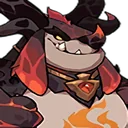
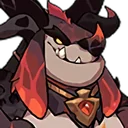
Counter: Find best counter button, win check, typed enemy level; square beast art
The counter already recalculated on every change; a Find best counter
button now reruns it and scrolls to the result. A win check at the top
of the result compares both teams' estimated power and turns red and
loud when the enemy is out of reach. The enemy hero level is typed in.

Beast art came as 186x250 cards squashed into squares; it is now a
square crop from near the top (also in sync_roster.py for new beasts).

Claude-Session: https://claude.ai/code/session_01YTy74K1THZQ6yo1A1fYRpt

diff --git a/src/js/ui/counter.js b/src/js/ui/counter.js
@@ -54,16 +54,6 @@ function enemyLevel() {
   return ui.enemyLevel ?? myLevel();
 }
 
-function levelOptions() {
-  const cur = enemyLevel();
-  const mine = myLevel();
-  const set = new Set([240, ...Array.from({ length: 25 }, (_, i) => 300 + i * 50), mine, cur]);
-  return [...set]
-    .filter((n) => n >= 1 && n <= LIMITS.level)
-    .sort((a, b) => a - b)
-    .map((n) => `<option value="${n}" ${n === cur ? 'selected' : ''}>${n}${n === mine ? ' · yours' : ''}</option>`)
-    .join('');
-}
 
 let root;
 
@@ -161,7 +151,7 @@ function render() {
         <div class="side-title">${ICON.swords} Enemy formation</div>
         ${board({ slots: ui.enemy, editable: true, cls: 'enemy-board', size: 60, build: enemyBuild(), level: enemyLevel(), beastEdit: beasts, beast: beasts ? ui.enemyBeast : null, beastLevel: ui.enemyBeastLevel })}
         <div class="enemy-opts">
-          <label class="field"><span>Hero level</span><select class="select" id="ct-elevel">${levelOptions()}</select></label>
+          <label class="field"><span>Hero level</span><input class="input" id="ct-elevel" type="number" inputmode="numeric" min="1" max="${LIMITS.level}" value="${enemyLevel()}" placeholder="${myLevel()}" title="Yours: ${myLevel()}"></label>
           <label class="field"><span>Upgrades (assumed)</span><select class="select" id="ct-ebuild">${Object.entries(ENEMY_BUILDS)
             .map(([k, b]) => `<option value="${k}" ${k === ui.enemyBuild ? 'selected' : ''}>${esc(b.label)}</option>`)
             .join('')}</select></label>
@@ -175,6 +165,7 @@ function render() {
         </div>
         <p class="small muted">The game doesn't show enemy upgrades, so enemy heroes count as Ascended 5 stars with the upgrades above.${beasts ? ' Tap the beast corner to set their beast.' : ''}</p>
         <div class="toolbar">
+          <button class="btn primary" type="button" data-act="find" ${enemyIds().length ? '' : 'disabled'}>${ICON.spark} Find best counter</button>
           <button class="btn" type="button" data-act="shot" id="ct-shot" hidden>${ICON.upload} Read a screenshot</button>
           <input type="file" id="ct-file" accept="image/png,image/jpeg,image/webp" hidden>
           <button class="btn" type="button" data-act="clear">Clear</button>
@@ -225,11 +216,12 @@ function renderResult(ctx) {
     .join('');
   const bp = beastFor(ctx, Object.values(s.layout));
   host.innerHTML = `<div class="side-title">${ICON.spark} Your counter (rules engine)</div>
+    <p class="small muted">Recalculated each time you change the enemy, the mode or your heroes.</p>
     <article class="result-card">
+      ${verdict(Object.values(s.layout))}
       <header><h4>${esc(s.template?.name || 'Counter formation')}</h4><span class="score">${s.total.toFixed(1)} pts</span></header>
       ${board({ slots: s.layout, artifacts: arts, showBank: ui.pool === 'mine', beast: bp.id })}
       ${bp.html}
-      ${powerLine(Object.values(s.layout))}
       <ul class="reasons">${reasons}</ul>
       ${s.synergies.length ? `<p class="small"><span class="muted">Synergy:</span> ${s.synergies.map((x) => `${esc(getHero(x.a).name)} + ${esc(getHero(x.b).name)}`).join(', ')}</p>` : ''}
     </article>`;
@@ -249,19 +241,25 @@ function renderResult(ctx) {
       .join('')}</div>`;
 }
 
-// Team power: the counter's estimated combat rating against the enemy's,
-// both from the same estimate (engine.js), the enemy's at the assumed build
-// and level. Beasts are not counted.
-function powerLine(ids) {
+// Can this team win? Compares the counter's estimated power with the
+// enemy's at its assumed build and level (combat rating estimate, engine.js;
+// beasts not counted). A rough guide: counters and faction edge can swing a
+// close fight, rarely a gap of 20% or more.
+function verdict(ids) {
   const enemy = enemyIds();
   if (ui.pool !== 'mine' || !enemy.length) return '';
   const theirs = enemy.reduce((t, id) => t + entryCR(enemyBuild(), getHero(id), enemyLevel()), 0);
   const ours = ids.reduce((t, id) => t + heroCR(getHero(id)), 0);
   const r = ours / theirs;
-  const verdict = enemy.length < 5 ? '' : r >= 1.1 ? 'Your team is stronger.' : r >= 0.9 ? 'A close match: faction edge and counters decide it.' : 'The enemy is stronger: expect a hard fight.';
-  return `<p class="power-line" title="${esc(CR_NOTE)}"><span class="muted">Team power</span> <strong class="num">≈ ${fmtCR(ours)}</strong> <span class="muted">vs enemy</span> <strong class="num">≈ ${fmtCR(theirs)}</strong>${
-    enemy.length < 5 ? ` <span class="muted">(${enemy.length} enemy hero${enemy.length === 1 ? '' : 'es'})</span>` : ''
-  }${verdict ? `<br><span class="small">${verdict}</span>` : ''}</p>`;
+  const pct = Math.round((r >= 1 ? r - 1 : 1 / r - 1) * 100);
+  let v;
+  if (enemy.length < 5) v = ['info', 'Enemy formation incomplete', `With ${enemy.length} of 5 enemy heroes in, the power check isn't meaningful yet.`];
+  else if (r >= 1.1) v = ['good', 'You should win', `Your team is about ${pct}% stronger.`];
+  else if (r >= 0.9) v = ['close', 'Close match', `The teams are within ${pct}% of each other, so faction edge, counters and positioning decide it.`];
+  else if (r >= 0.8) v = ['warn', 'Hard fight', `The enemy is about ${pct}% stronger. You need the counters and faction edge to land.`];
+  else v = ['bad', "You probably can't win this", `The enemy is about ${pct}% stronger. Counters and faction edge rarely make up that much: upgrade your heroes first or pick another opponent.`];
+  return `<div class="verdict ${v[0]}" role="status" title="${esc(CR_NOTE)}"><strong>${v[0] === 'bad' ? '⚠ ' : ''}${v[1]}</strong><span>${v[2]}</span>
+    <span class="small">Team power ≈ <b class="num">${fmtCR(ours)}</b> vs enemy ≈ <b class="num">${fmtCR(theirs)}</b> (estimates; enemy assumed ${esc(ENEMY_BUILDS[ui.enemyBuild]?.label || '')} at level ${enemyLevel()})</span></div>`;
 }
 
 function beastFor(ctx, ids) {
@@ -401,6 +399,14 @@ function onClick(ev) {
       ui.claude = null;
       render();
     });
+  } else if (act === 'find') {
+    // The counter is recalculated on every change; this reruns it and brings it into view.
+    renderResult(context());
+    const card = $('#ct-result .result-card', root) || $('#ct-result', root);
+    card?.scrollIntoView({ behavior: 'smooth', block: 'start' });
+    card?.classList.remove('flash');
+    void card?.offsetWidth;
+    card?.classList.add('flash');
   } else if (act === 'claude') askClaude();
   else if (act === 'stop') ui.ctl?.abort();
   else if (act === 'shot') $('#ct-file', root).click();
@@ -416,7 +422,9 @@ function onChange(ev) {
     ui.invest = t.checked;
     render();
   } else if (t.id === 'ct-elevel') {
-    ui.enemyLevel = Number(t.value);
+    // Empty goes back to the player's own level.
+    const v = Math.round(Number(t.value));
+    ui.enemyLevel = t.value === '' || !Number.isFinite(v) ? null : Math.min(LIMITS.level, Math.max(1, v));
     ui.claude = null;
     render();
   } else if (t.id === 'ct-ebuild') {

diff --git a/src/css/app.css b/src/css/app.css
@@ -900,12 +900,24 @@ table.bank .input, table.bank .select { padding: 3px 6px; min-height: 30px; font
 /* Enemy formation: level, assumed upgrades and beast level in one row. */
 .enemy-opts { display: grid; grid-template-columns: minmax(0, 0.8fr) minmax(0, 1.6fr) minmax(0, 0.8fr); gap: 10px; }
 .enemy-opts .select { width: 100%; }
-.power-line { margin: 0; font-size: 0.9rem; }
+/* Win check at the top of the counter: red and loud when the enemy is out of reach. */
+.verdict { display: flex; flex-direction: column; gap: 3px; padding: 10px 12px; border-radius: var(--r-sm); border: 1px solid var(--line-2); background: var(--surface-2); font-size: 0.92rem; }
+.verdict strong { font-family: var(--font-display); font-weight: 400; font-size: 1.12rem; }
+.verdict .small { color: var(--ink-2); }
+.verdict.good { border-color: color-mix(in srgb, var(--good) 60%, transparent); background: color-mix(in srgb, var(--good) 14%, var(--surface)); }
+.verdict.good strong { color: var(--good); }
+.verdict.close { border-color: color-mix(in srgb, var(--accent) 55%, transparent); background: var(--accent-soft); }
+.verdict.warn { border-color: color-mix(in srgb, #f08a24 70%, transparent); background: color-mix(in srgb, #f08a24 16%, var(--surface)); }
+.verdict.warn strong { color: #f08a24; }
+.verdict.bad { border: 2px solid var(--bad); background: color-mix(in srgb, var(--bad) 22%, var(--surface)); box-shadow: 0 0 0 3px color-mix(in srgb, var(--bad) 18%, transparent); }
+.verdict.bad strong { color: var(--bad); font-size: 1.3rem; }
+.verdict.bad .small { color: var(--ink); }
+.result-card.flash { animation: flash 1.2s ease-out; }
+@keyframes flash { 0% { box-shadow: 0 0 0 3px var(--accent); } 100% { box-shadow: var(--shadow); } }
 @media (max-width: 760px) {
   .enemy-opts { grid-template-columns: repeat(2, minmax(0, 1fr)); }
   .enemy-opts .field:nth-child(2) { grid-column: 1 / -1; order: 3; }
 }
-.power-line strong { font-family: var(--font-data); font-size: 1.05rem; }
 .clamp-2 { display: -webkit-box; -webkit-box-orient: vertical; -webkit-line-clamp: 2; overflow: hidden; }
 .picker-grid { display: grid; grid-template-columns: repeat(auto-fill, minmax(78px, 1fr)); gap: 4px; }
 .picker-grid .hero-tile { width: auto; }

diff --git a/scripts/sync_roster.py b/scripts/sync_roster.py
@@ -107,6 +107,18 @@ def main():
     print(f'added {len(new)} heroes. Set their class, release month, kit and ratings, then remove needsReview.')
 
 
+def save_beast(im, dest):
+    """Beast art comes as a portrait card (186x250): crop a square near the top,
+    where the head is, instead of squashing the card into a square."""
+    from PIL import Image
+    im = im.convert('RGBA')
+    w, h = im.size
+    side = min(w, h)
+    top = min(h - side, round(h * 0.056))
+    left = (w - side) // 2
+    im.crop((left, top, left + side, top + side)).resize((128, 128), Image.LANCZOS).save(dest, 'WEBP', quality=84, method=6)
+
+
 def sync_beasts(units, write):
     path = ROOT / 'data' / 'beasts.json'
     doc = json.loads(path.read_text())
@@ -129,7 +141,7 @@ def sync_beasts(units, write):
     for b in new:
         try:
             raw = get(f"{CDN}unit_icon_by_id/{b['gameId']}_2x.webp")
-            Image.open(io.BytesIO(raw)).convert('RGBA').resize((128, 128), Image.LANCZOS).save(ROOT / b['img'], 'WEBP', quality=84, method=6)
+            save_beast(Image.open(io.BytesIO(raw)), ROOT / b['img'])
         except Exception as e:
             print(f"  no portrait for {b['name']}: {e}")
     doc['beasts'] += new
